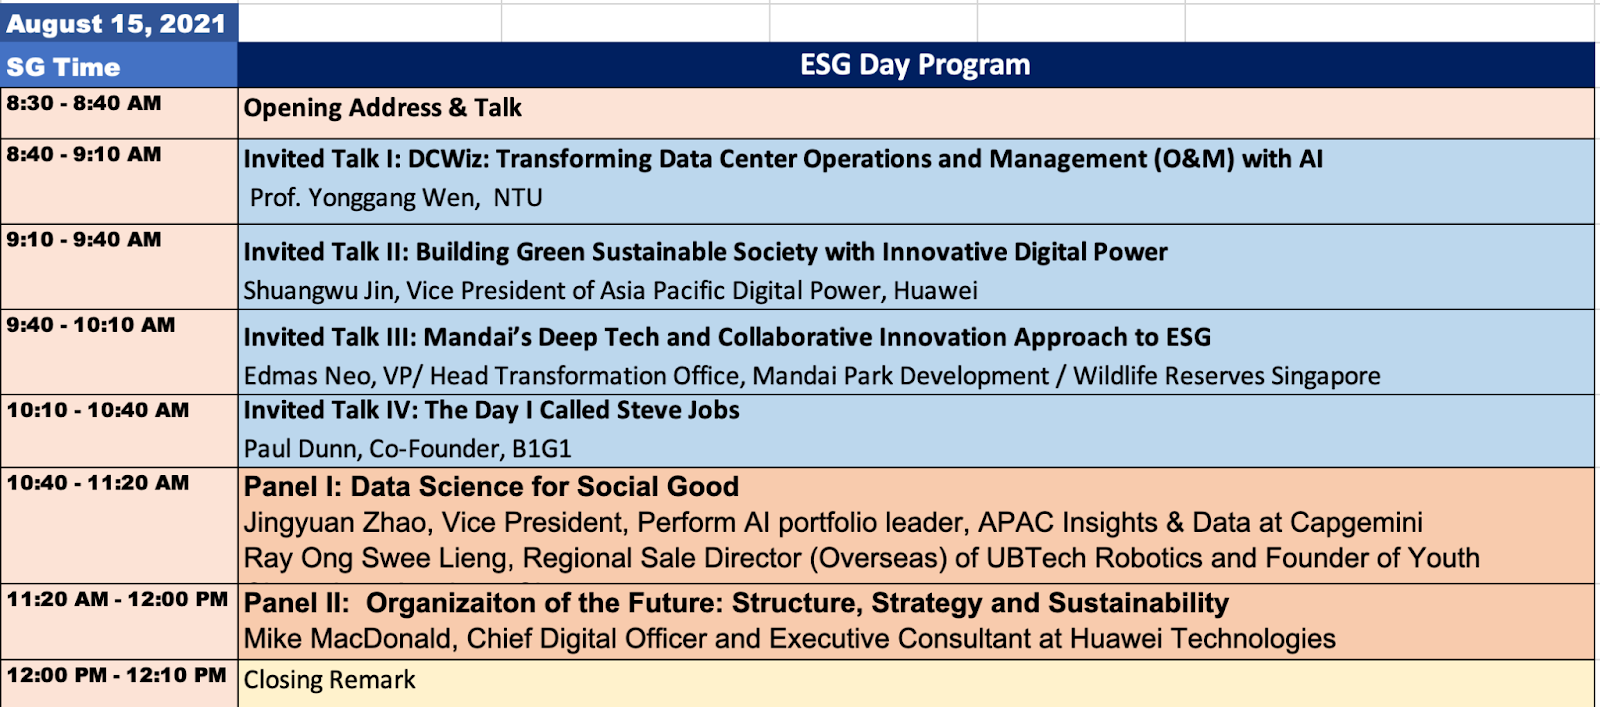
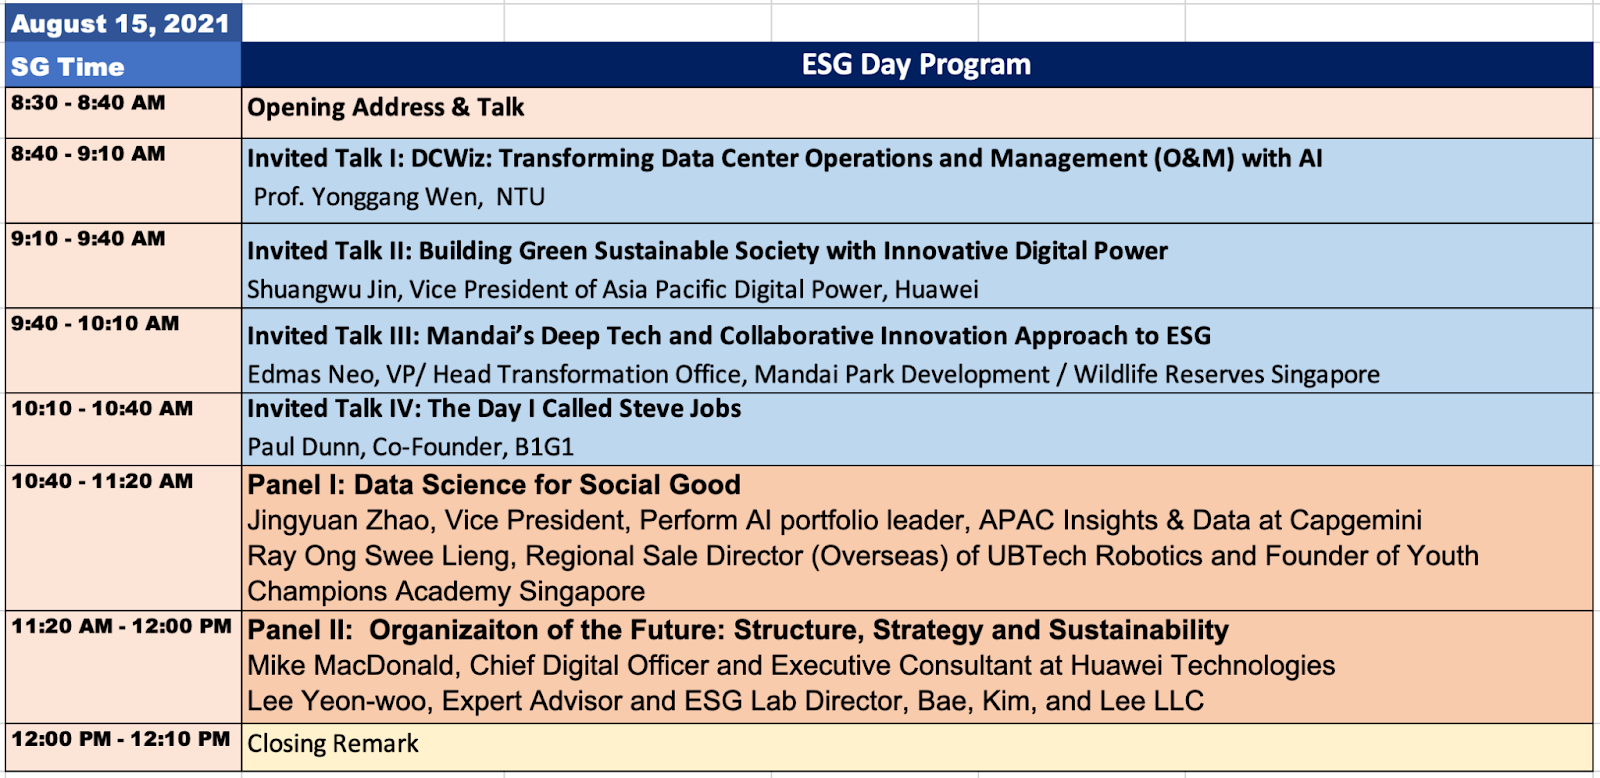
Site updated: 2021-08-05 13:12:17

diff --git a/panels/index.html b/panels/index.html
@@ -76,6 +76,18 @@
             <br>
         </font></font></td>
     </tr>
+    <tr>
+        <td width="30%" height="100%" align="center" valign="top">
+            <figure class="figure"><img src="/panels/Lee_Yeon_woo.jpg" width="200" height="240"></figure>
+            <font size="3">Lee Yeon-woo<br>
+            <font size="2">Expert Advisor and ESG Lab Director<br>
+            <font size="2">Bae, Kim, and Lee LLC<br>
+        </font></font></font></td>
+        <td width="70%" height="100%" align="justify" valign="top">
+            <br>
+            <font size="2">For over past 15 years, Yeon W. LEE has researched and lectured on international business management, strategy and competitiveness at prestigious universities in Korea while at the same time giving advisory and consultations on topics of sustainability, global environment, and change management for multinational corporations and government bodies. Dr. Lee has broad scope of knowledge and experiences in connecting the areas of strategic management and international business in deriving cooperative innovative models that better captures the constant change that occur in technology, law and ethics, and MZ generation in today’s VUCA world (volatile, uncertain, complex, ambiguous). Her main research areas include industries such as energy, media and entertainment, healthcare, and ICT industry. At Bae, Kim & Lee LLC, Dr. Lee’s main focus will be to provide education, consulting, and advisory by connecting legal issues with business strategies so that firms and society can conduct more effective and synergistic sustainability programs such as through ESG.<br>
+        </font></td>
+    </tr>
 </table>
 	
 </article>

diff --git a/2021/05/20/esgday/index.html b/2021/05/20/esgday/index.html
@@ -93,6 +93,14 @@
             <font size="2">Huawei Asia Pacific<br>
         </font></font></font></td>
     </tr>
+    <tr>
+        <td width="30%" height="100%" align="center" valign="top">
+            <figure class="figure"><img src="/2021/05/20/esgday/Lee_Yeon_woo.jpg" width="200" height="240"></figure>
+            <font size="3">Lee Yeon-woo<br>
+            <font size="2">Expert Advisor and ESG Lab Director<br>
+            <font size="2">Bae, Kim, and Lee LLC<br>
+        </font></font></font></td>
+    </tr>
 </table>
 
 <h3 id="Co-Organizers"><a href="#Co-Organizers" class="headerlink" title="Co-Organizers"></a>Co-Organizers</h3><figure class="figure"><img src="/image/huawei_logo.jpg" width="20%" align="left"></figure>

diff --git a/archives/2021/05/index.html b/archives/2021/05/index.html
@@ -97,6 +97,14 @@
             <font size="2">Huawei Asia Pacific<br>
         </font></font></font></td>
     </tr>
+    <tr>
+        <td width="30%" height="100%" align="center" valign="top">
+            <figure class="figure"><img src="/2021/05/20/esgday/Lee_Yeon_woo.jpg" width="200" height="240"></figure>
+            <font size="3">Lee Yeon-woo<br>
+            <font size="2">Expert Advisor and ESG Lab Director<br>
+            <font size="2">Bae, Kim, and Lee LLC<br>
+        </font></font></font></td>
+    </tr>
 </table>
 
 <h3 id="Co-Organizers"><a href="#Co-Organizers" class="headerlink" title="Co-Organizers"></a>Co-Organizers</h3><figure class="figure"><img src="/image/huawei_logo.jpg" width="20%" align="left"></figure>

diff --git a/archives/2021/index.html b/archives/2021/index.html
@@ -97,6 +97,14 @@
             <font size="2">Huawei Asia Pacific<br>
         </font></font></font></td>
     </tr>
+    <tr>
+        <td width="30%" height="100%" align="center" valign="top">
+            <figure class="figure"><img src="/2021/05/20/esgday/Lee_Yeon_woo.jpg" width="200" height="240"></figure>
+            <font size="3">Lee Yeon-woo<br>
+            <font size="2">Expert Advisor and ESG Lab Director<br>
+            <font size="2">Bae, Kim, and Lee LLC<br>
+        </font></font></font></td>
+    </tr>
 </table>
 
 <h3 id="Co-Organizers"><a href="#Co-Organizers" class="headerlink" title="Co-Organizers"></a>Co-Organizers</h3><figure class="figure"><img src="/image/huawei_logo.jpg" width="20%" align="left"></figure>

diff --git a/archives/index.html b/archives/index.html
@@ -97,6 +97,14 @@
             <font size="2">Huawei Asia Pacific<br>
         </font></font></font></td>
     </tr>
+    <tr>
+        <td width="30%" height="100%" align="center" valign="top">
+            <figure class="figure"><img src="/2021/05/20/esgday/Lee_Yeon_woo.jpg" width="200" height="240"></figure>
+            <font size="3">Lee Yeon-woo<br>
+            <font size="2">Expert Advisor and ESG Lab Director<br>
+            <font size="2">Bae, Kim, and Lee LLC<br>
+        </font></font></font></td>
+    </tr>
 </table>
 
 <h3 id="Co-Organizers"><a href="#Co-Organizers" class="headerlink" title="Co-Organizers"></a>Co-Organizers</h3><figure class="figure"><img src="/image/huawei_logo.jpg" width="20%" align="left"></figure>

diff --git a/index.html b/index.html
@@ -97,6 +97,14 @@
             <font size="2">Huawei Asia Pacific<br>
         </font></font></font></td>
     </tr>
+    <tr>
+        <td width="30%" height="100%" align="center" valign="top">
+            <figure class="figure"><img src="/2021/05/20/esgday/Lee_Yeon_woo.jpg" width="200" height="240"></figure>
+            <font size="3">Lee Yeon-woo<br>
+            <font size="2">Expert Advisor and ESG Lab Director<br>
+            <font size="2">Bae, Kim, and Lee LLC<br>
+        </font></font></font></td>
+    </tr>
 </table>
 
 <h3 id="Co-Organizers"><a href="#Co-Organizers" class="headerlink" title="Co-Organizers"></a>Co-Organizers</h3><figure class="figure"><img src="/image/huawei_logo.jpg" width="20%" align="left"></figure>
